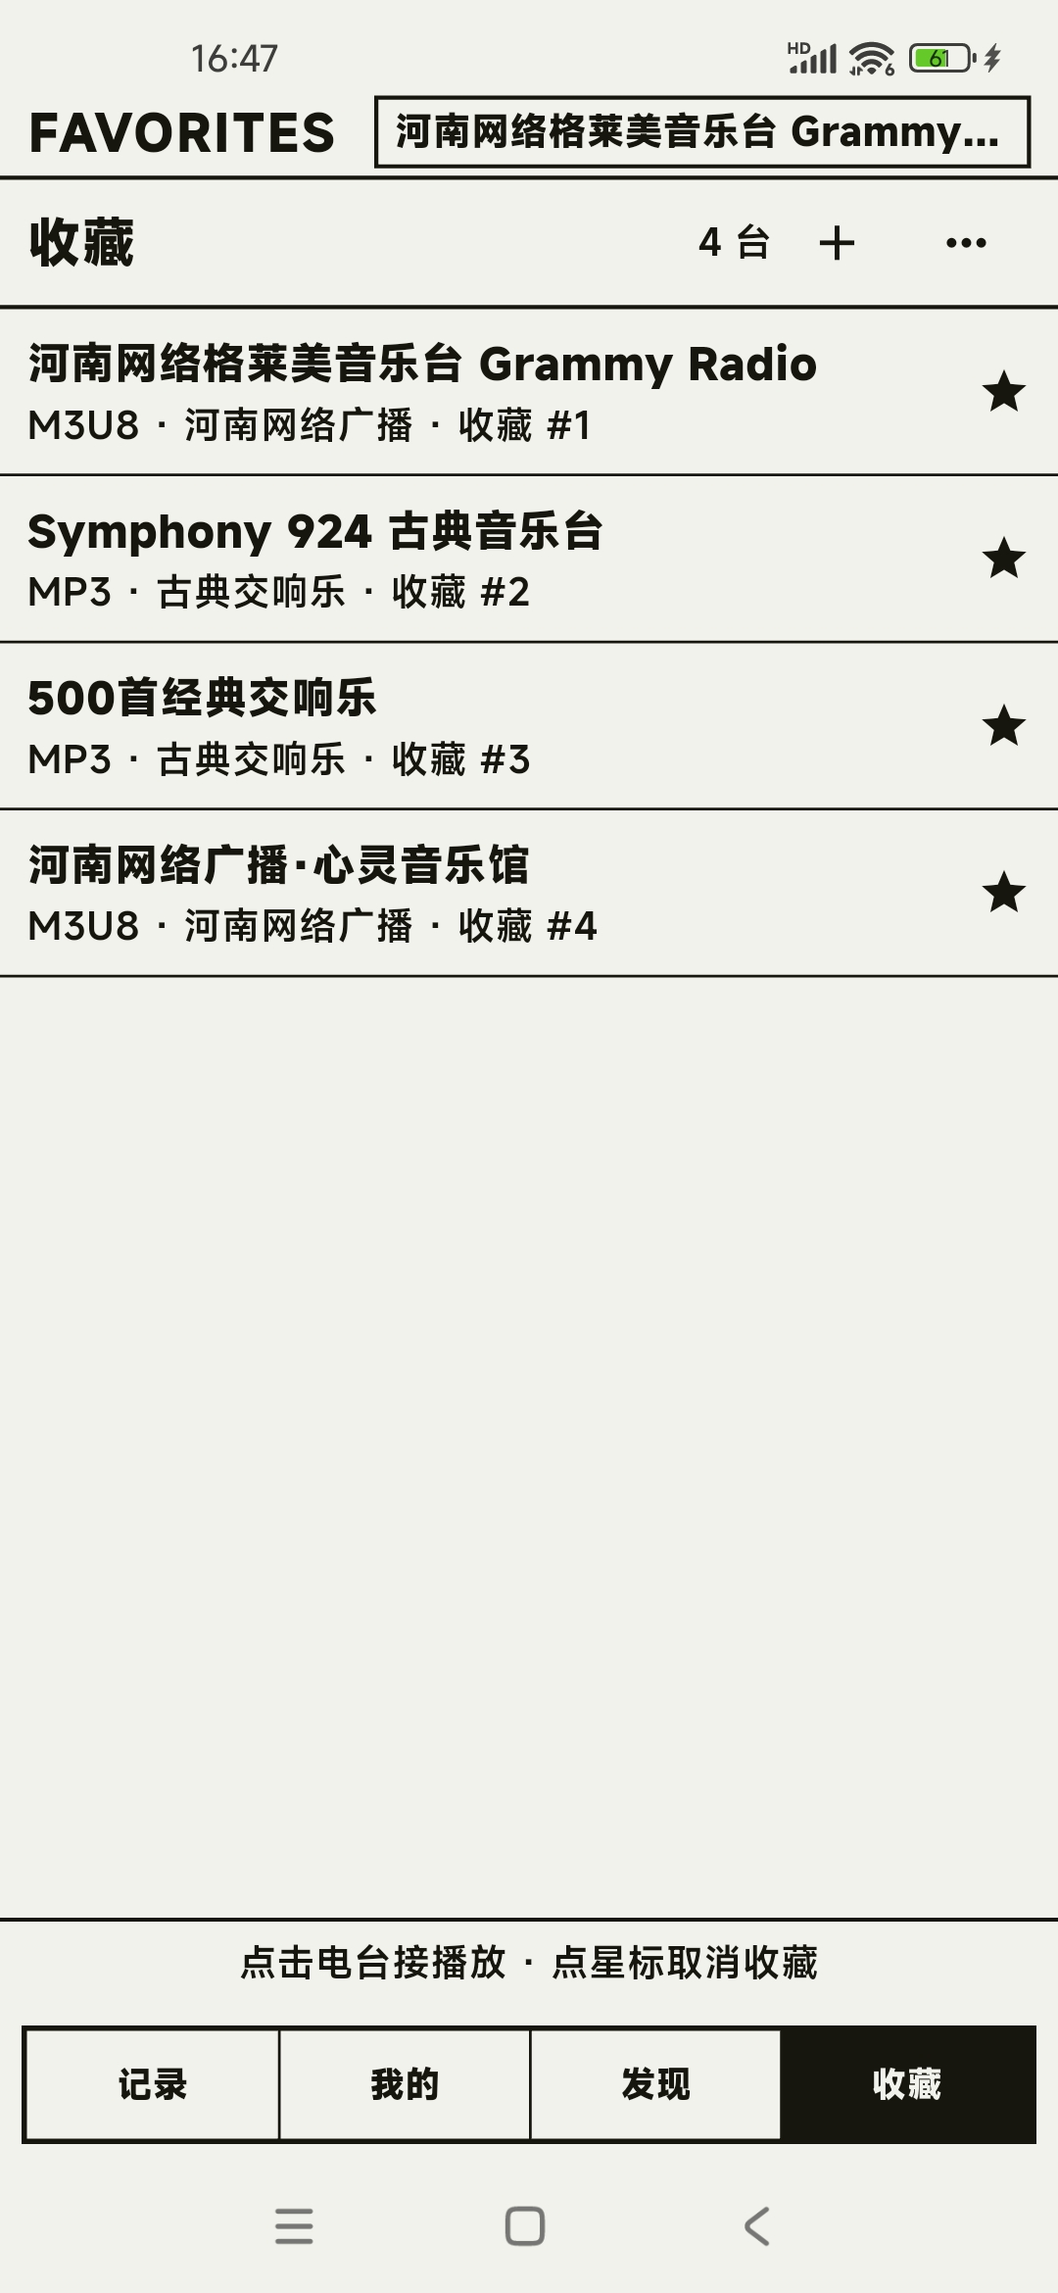
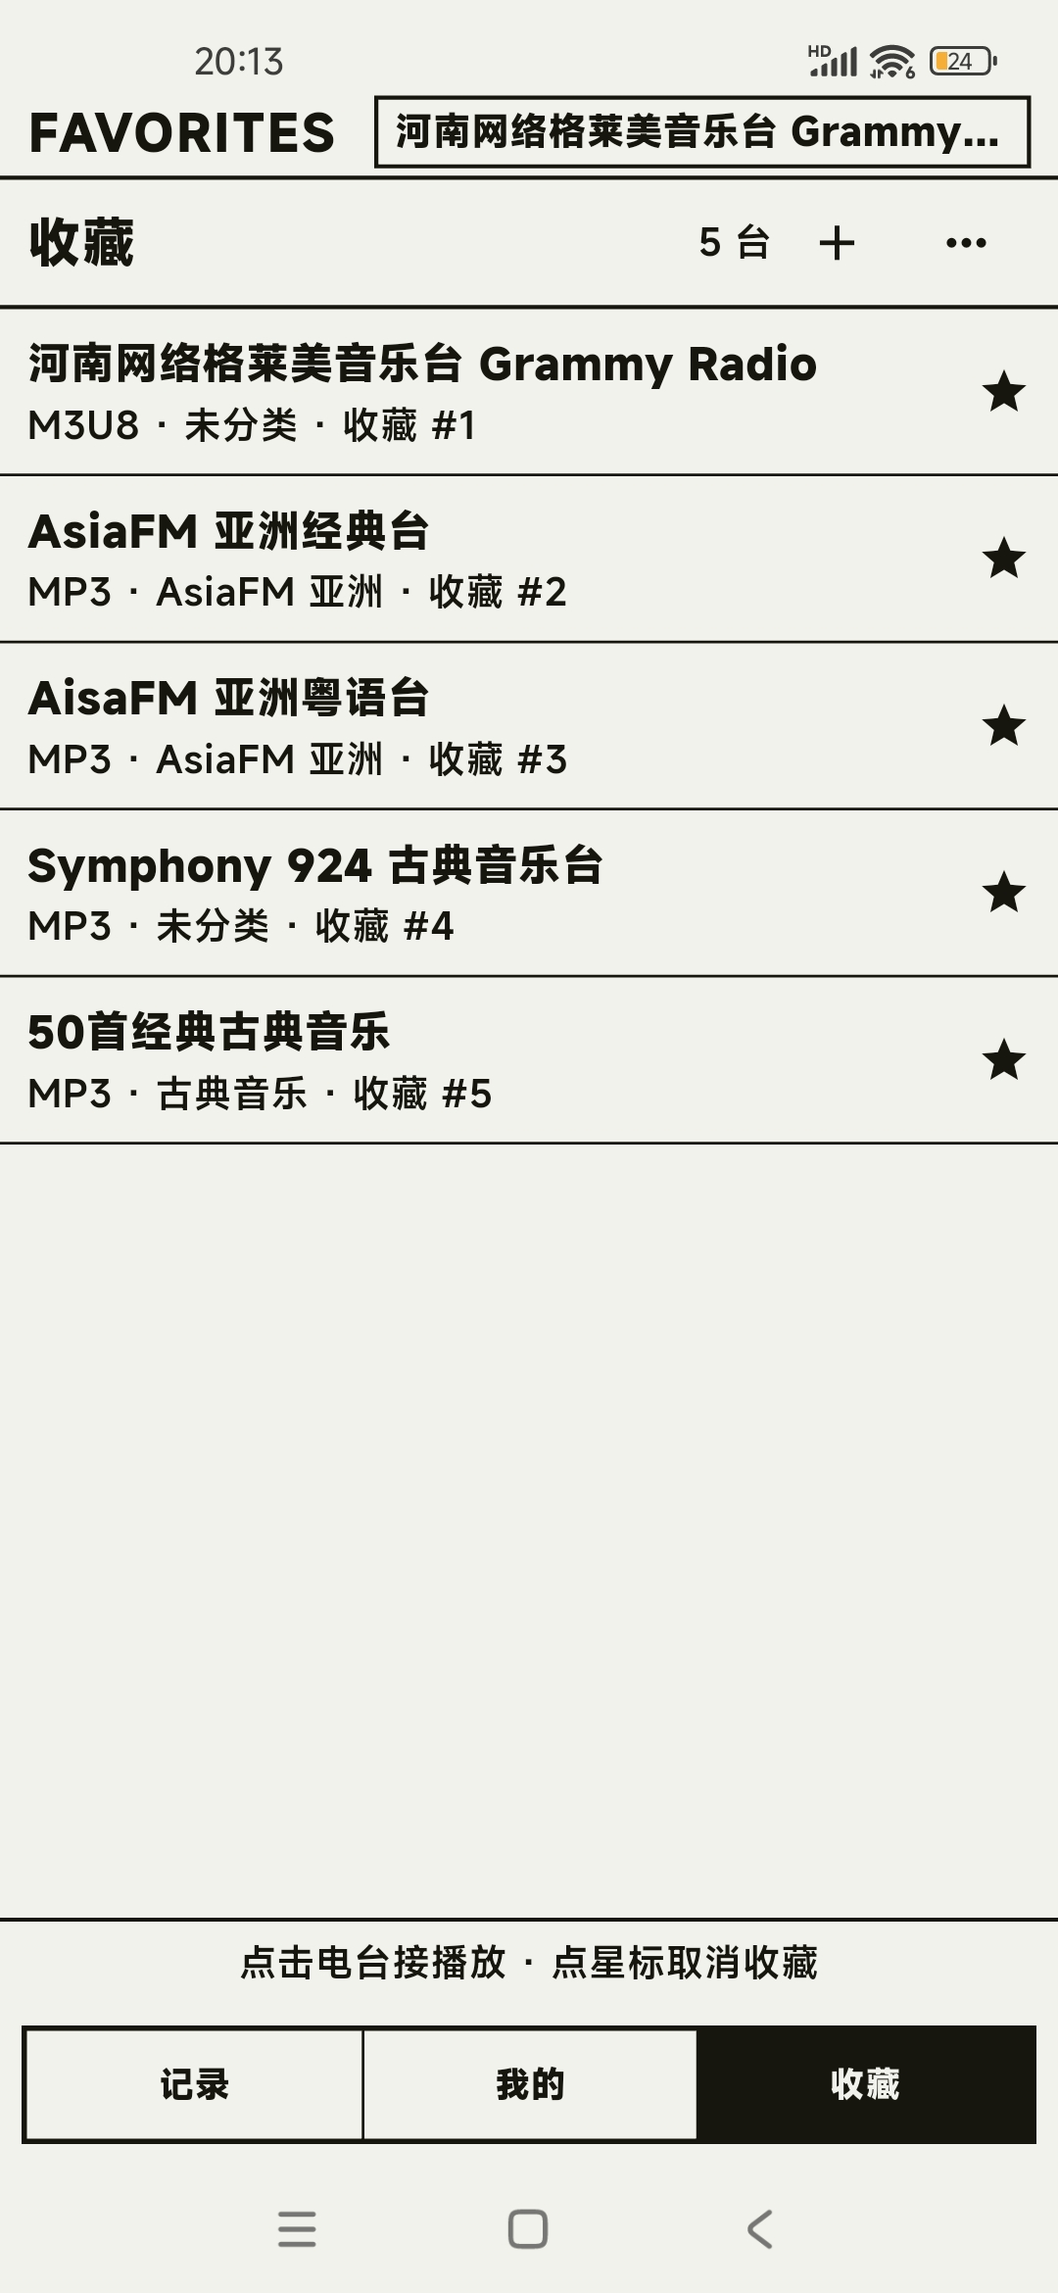
移除发现页与内置电台说明，更新界面截图

diff --git a/README.en.md b/README.en.md
@@ -9,7 +9,7 @@ Dingding Radio (TingTing Radio) is a minimalist, e-ink-style internet radio play
 > This repository is for the app introduction, user guide and official APK releases only. **Source code is not included.**
 
 <p align="center">
-  <img src="screenshots/home.jpg" width="230" alt="My stations">
+  <img src="screenshots/library.jpg" width="230" alt="My stations">
   <img src="screenshots/player.jpg" width="230" alt="Now playing">
   <img src="screenshots/favorites.jpg" width="230" alt="Favorites">
 </p>
@@ -38,17 +38,16 @@ Verify the checksum after downloading, then install. If you are unsure, pick **a
 
 ## What's new (v2026.11.12)
 
-1. **RadioBrowser public station library**: tap the **Discover** tab at the bottom to browse **52,000+** stations by location / category / search. Hit the `+` on any row to add it;
-2. **Bulk group / bulk delete** for your own station library;
-3. **Multilingual UI**: follow system or pick from 14 languages (Simplified Chinese, Traditional Chinese, English, Español, Deutsch, Français, Русский, Português, Italiano, Ελληνικά, Nederlands, Română, Polski). Changes take effect immediately;
-4. Several UI polish and bug fixes.
+1. **Bulk group / bulk delete** for your own station library;
+2. **Multilingual UI**: follow system or pick from 14 languages (Simplified Chinese, Traditional Chinese, English, Español, Deutsch, Français, Русский, Português, Italiano, Ελληνικά, Nederlands, Română, Polski). Changes take effect immediately;
+3. Several UI polish and bug fixes.
 
 ## Features
 
 - **MP3 & M3U8 support** — the stream format is detected from the URL automatically.
 - **Keeps playing with the screen off** — foreground media service + wake lock; playback continues when locked or backgrounded.
 - **Notification and lock-screen controls** — play, pause, previous, next, stop.
-- **Your own station library** — add, edit, move, delete, group, bulk-group and bulk-delete; bulk import from the clipboard or search the RadioBrowser online directory (50,000+ stations).
+- **Your own station library** — add MP3 / M3U8 stations manually or bulk-import them from the clipboard; edit, move, delete, group, bulk-group and bulk-delete.
 - **Favorites and resume** — star the stations you use and return to the last one on cold start.
 - **Sleep timer** — stop automatically after 15 / 30 / 60 minutes.
 - **Auto skip on failure** — when a stream fails, the app offers a clear message and tries the next station.
@@ -60,7 +59,7 @@ Verify the checksum after downloading, then install. If you are unsure, pick **a
 
 1. Download the APK from [Releases](https://github.com/haijiang2023/tingting-radio/releases/latest).
 2. Allow “Install unknown apps” on your phone, then install it.
-3. Open the app, tap **Discover** at the bottom. You’ll see **52,000+** public stations — browse by location / category / search, and hit `+` on any row to add it.
+3. Open the app and tap `+` in the top-right corner. Enter a station name and its MP3 / M3U8 URL manually, or bulk-import stations from the clipboard.
 4. Tap a station to play. Playback continues after you press the power button, and controls stay available in the notification shade.
 
 Detailed guide (Simplified Chinese): [使用教程](docs/使用教程.md) · FAQ: [常见问题](docs/常见问题.md)
@@ -69,23 +68,22 @@ Detailed guide (Simplified Chinese): [使用教程](docs/使用教程.md) · FAQ
 
 | Method | Best for |
 |---|---|
-| **Discover · RadioBrowser** (recommended) | Browse 50,000+ public stations by country / genre / keyword. Tap `+` to add |
-| Add manually | You already know an MP3 direct link or M3U8 URL |
-| Bulk import from clipboard | You have copied several stream URLs and want to parse them at once |
+| Add manually | You already know an MP3 direct link or M3U8 URL and want to enter stations one by one |
+| Bulk import from clipboard | You have copied several stream URLs and want to parse and import them at once |
 
 You can create a group while adding a station. Groups are optional; the home screen shows a mixed list with groups on top and ungrouped stations below.
 
 ## Screenshots
 
 <p align="center">
-  <a href="screenshots/home.jpg"><img src="screenshots/home.jpg" width="200" alt="My stations"></a>
-  <a href="screenshots/add-station.jpg"><img src="screenshots/add-station.jpg" width="200" alt="Discover"></a>
+  <a href="screenshots/library.jpg"><img src="screenshots/library.jpg" width="200" alt="My stations"></a>
+  <a href="screenshots/home.jpg"><img src="screenshots/home.jpg" width="200" alt="History"></a>
   <a href="screenshots/lang.jpg"><img src="screenshots/lang.jpg" width="200" alt="Language"></a>
   <a href="screenshots/player.jpg"><img src="screenshots/player.jpg" width="200" alt="Now playing"></a>
 </p>
 
 <p align="center">
-  My stations · Discover (52,000+ RadioBrowser stations) · Language (14) · Now playing
+  My stations · History · Language (14) · Now playing
 </p>
 
 ## About internet radio and online radio
@@ -94,7 +92,7 @@ Dingding Radio (TingTing Radio) is a free **internet radio** and **online radio*
 
 ## Notes
 
-- Some stations appear on first launch. Add the rest yourself.
+- No station directory or sample stations are built in. Add all stations yourself.
 - You provide the stream URLs; third-party streams may expire or be region-restricted.
 - Stations, groups, favorites and volume are stored on your device only. Uninstalling clears them.
 - Two builds are published: **arm64-v8a (Android 5–17)** and **armeabi-v7a (Android 4.x)**. The app is not available on any app store.

diff --git a/README.zh-Hant.md b/README.zh-Hant.md
@@ -9,7 +9,7 @@
 > 本倉庫僅用於發布應用介紹、使用教學與正式版 APK，**不包含原始碼**。
 
 <p align="center">
-  <img src="screenshots/home.jpg" width="230" alt="我的電台">
+  <img src="screenshots/library.jpg" width="230" alt="我的電台">
   <img src="screenshots/player.jpg" width="230" alt="正在播放">
   <img src="screenshots/favorites.jpg" width="230" alt="收藏">
 </p>
@@ -38,17 +38,16 @@ armeabi-v7a / Android 4.x 舊包：9D04985AA516F3E290457688FE883CFCE70A228F18275
 
 ## 更新說明（v2026.11.12）
 
-1. **接入 RadioBrowser 公共電台庫**，底部切到「發現」即可按本地 / 分類 / 搜尋瀏覽全世界 **5.2 萬+** 電台，點右側 `+` 一鍵收藏；
-2. **新增電台批次歸類、批次刪除**，整理自建電台庫更高效；
-3. **多語言介面**：跟隨系統 + 14 種語言（簡中、繁中、英、西、德、法、俄、葡、意、希、荷、羅、波），選擇後立即生效；
-4. 多項介面小改進與已知問題修復。
+1. **新增電台批次歸類、批次刪除**，整理自建電台庫更高效；
+2. **多語言介面**：跟隨系統 + 14 種語言（簡中、繁中、英、西、德、法、俄、葡、意、希、荷、羅、波），選擇後立即生效；
+3. 多項介面小改進與已知問題修復。
 
 ## 功能
 
 - **MP3 / M3U8 雙格式**：依連結自動判斷格式，不需手動選擇協定。
 - **螢幕關閉不斷流**：前景媒體服務 + 喚醒鎖，鎖定畫面、切到背景都能繼續播放。
 - **通知列 / 鎖定畫面控制**：播放、暫停、上一台、下一台、停止。
-- **自建電台庫**：新增、編輯、移動、刪除、分類、批次歸類、批次刪除；支援剪貼簿批次匯入與 RadioBrowser 線上電台庫（5 萬+）搜尋。
+- **自建電台庫**：手動新增或從剪貼簿批次匯入 MP3 / M3U8 電台；支援編輯、移動、刪除、分類、批次歸類、批次刪除。
 - **收藏與續聽**：收藏常用電台，冷啟動回到上次收聽。
 - **睡眠定時**：15 / 30 / 60 分鐘後自動停止。
 - **失敗自動切台**：直播源失效時提示並自動嘗試下一台。
@@ -60,7 +59,7 @@ armeabi-v7a / Android 4.x 舊包：9D04985AA516F3E290457688FE883CFCE70A228F18275
 
 1. 從 [Releases](https://github.com/haijiang2023/tingting-radio/releases/latest) 下載 APK。
 2. 在手機上允許「安裝未知來源應用程式」，點擊安裝。
-3. 開啟 App，底部切到「發現」，就能看到 **5.2 萬+** 公共電台，按「本地 / 分類 / 搜尋」瀏覽，點每行右側 `+` 即可加入。
+3. 開啟 App，點擊首頁右上角 `+`，手動填寫電台名稱與 MP3 / M3U8 位址，或從剪貼簿批次匯入。
 4. 點擊電台立即播放；按下電源鍵後聲音繼續，通知列可直接控制。
 
 完整說明見 [使用教學（簡體中文）](docs/使用教程.md)，常見問題見 [常見問題（簡體中文）](docs/常见问题.md)。
@@ -69,23 +68,22 @@ armeabi-v7a / Android 4.x 舊包：9D04985AA516F3E290457688FE883CFCE70A228F18275
 
 | 方式 | 適合情境 |
 |---|---|
-| **發現頁 · RadioBrowser**（推薦） | 瀏覽 5 萬+ 公共電台，依國家 / 分類 / 關鍵字搜尋，點 `+` 即加 |
-| 手動新增 | 已知 MP3 直鏈或 M3U8 位址 |
-| 剪貼簿批次匯入 | 已複製多個台源連結，可批次解析 |
+| 手動新增 | 已知 MP3 直鏈或 M3U8 位址，逐個填寫電台名稱與連結 |
+| 剪貼簿批次匯入 | 已複製多個台源連結，可一次性解析匯入 |
 
 新增時可順手建立分類。分類可以為 0 個，首頁會以「分類在上、未分類在下」的混合清單呈現。
 
 ## 介面
 
 <p align="center">
-  <a href="screenshots/home.jpg"><img src="screenshots/home.jpg" width="200" alt="我的電台"></a>
-  <a href="screenshots/add-station.jpg"><img src="screenshots/add-station.jpg" width="200" alt="發現頁"></a>
-  <a href="screenshots/lang.jpg"><img src="screenshots/lang.jpg" width="200" alt="語言"></a>
+  <a href="screenshots/library.jpg"><img src="screenshots/library.jpg" width="200" alt="我的電台"></a>
+  <a href="screenshots/home.jpg"><img src="screenshots/home.jpg" width="200" alt="播放記錄"></a>
+  <a href="screenshots/lang.jpg"><img src="screenshots/lang.jpg" width="200" alt="語言設定"></a>
   <a href="screenshots/player.jpg"><img src="screenshots/player.jpg" width="200" alt="正在播放"></a>
 </p>
 
 <p align="center">
-  我的電台 · 發現頁（RadioBrowser 5.2 萬+ 電台）· 語言設定（14 種）· 正在播放
+  我的電台 · 播放記錄 · 語言設定（14 種）· 正在播放
 </p>
 
 ## 關於「網路電台 / 網路收音機」
@@ -94,7 +92,7 @@ armeabi-v7a / Android 4.x 舊包：9D04985AA516F3E290457688FE883CFCE70A228F18275
 
 ## 說明
 
-- 應用程式不內建部分範例台；其餘電台由你自行新增。
+- 應用程式不內建電台目錄或範例台，所有電台均需由你自行新增。
 - 電台源由你自行輸入，第三方轉流位址可能失效或受地區限制。
 - 電台、分類、收藏、音量等資料只保存在本機，不需要帳號；解除安裝會一併清除。
 - 同時發布 **arm64-v8a（Android 5~17）** 與 **armeabi-v7a（Android 4.x）** 兩個版本，未上架任何應用程式商店。

diff --git a/README.md b/README.md
@@ -9,7 +9,7 @@
 > 本仓库仅用于发布应用介绍、使用教程和正式版 APK，**不包含源代码**。
 
 <p align="center">
-  <img src="screenshots/home.jpg" width="230" alt="我的电台">
+  <img src="screenshots/library.jpg" width="230" alt="我的电台">
   <img src="screenshots/player.jpg" width="230" alt="正在播放">
   <img src="screenshots/favorites.jpg" width="230" alt="收藏">
 </p>
@@ -38,17 +38,16 @@ armeabi-v7a / Android 4.x 老包：9D04985AA516F3E290457688FE883CFCE70A228F18275
 
 ## 更新说明（v2026.11.12）
 
-1. **接入 RadioBrowser 公共电台库**，底部切到「发现」即可按本地 / 分类 / 搜索浏览全世界 **5.2 万+** 电台，点右侧 `+` 一键收藏；
-2. **新增电台批量归类、批量删除**，整理自建电台库更高效；
-3. **多语言界面**：跟随系统 + 14 种语言（简中、繁中、英、西、德、法、俄、葡、意、希、荷、罗、波），选择后立即生效；
-4. 多项界面小改进与已知问题修复。
+1. **新增电台批量归类、批量删除**，整理自建电台库更高效；
+2. **多语言界面**：跟随系统 + 14 种语言（简中、繁中、英、西、德、法、俄、葡、意、希、荷、罗、波），选择后立即生效；
+3. 多项界面小改进与已知问题修复。
 
 ## 功能
 
 - **MP3 / M3U8 双格式**：格式按链接自动判断，不用手选协议。
 - **息屏不断流**：前台媒体服务 + 唤醒锁，锁屏、切后台继续播放。
 - **通知栏 / 锁屏控制**：播放、暂停、上一台、下一台、停止。
-- **自建电台库**：添加、编辑、移动、删除、分类、批量归类、批量删除；支持剪贴板批量导入与 RadioBrowser 在线电台库（5 万+）搜索。
+- **自建电台库**：手动添加或从剪贴板批量导入 MP3 / M3U8 电台；支持编辑、移动、删除、分类、批量归类、批量删除。
 - **收藏与续听**：收藏常用电台，冷启动回到上次收听。
 - **睡眠定时**：15 / 30 / 60 分钟自动停止。
 - **失败自动切台**：直播源失效时提示并自动尝试下一台。
@@ -60,7 +59,7 @@ armeabi-v7a / Android 4.x 老包：9D04985AA516F3E290457688FE883CFCE70A228F18275
 
 1. 从 [Releases](https://github.com/haijiang2023/tingting-radio/releases/latest) 下载 APK。
 2. 在手机上允许「安装未知来源应用」，点击安装。
-3. 打开 App，底部切到「发现」，就能看到 **5.2 万+** 公共电台，按「本地 / 分类 / 搜索」浏览，点每行右侧 `+` 即可加入。
+3. 打开 App，点击首页右上角 `+`，手动填写电台名称与 MP3 / M3U8 地址，或从剪贴板批量导入。
 4. 点电台立即播放；按下电源键后声音继续，通知栏可直接控制。
 
 完整说明见 [使用教程](docs/使用教程.md)，常见问题见 [常见问题](docs/常见问题.md)。
@@ -69,23 +68,22 @@ armeabi-v7a / Android 4.x 老包：9D04985AA516F3E290457688FE883CFCE70A228F18275
 
 | 方式 | 适合场景 |
 |---|---|
-| **发现页 · RadioBrowser**（推荐） | 浏览 5 万+ 公共电台，按国家 / 分类 / 关键词搜索，点 `+` 即加 |
-| 手动添加 | 已知 MP3 直链或 M3U8 地址 |
-| 剪贴板批量导入 | 已复制多个台源链接，可批量解析 |
+| 手动添加 | 已知 MP3 直链或 M3U8 地址，逐个填写电台名称与链接 |
+| 剪贴板批量导入 | 已复制多个台源链接，可一次性解析导入 |
 
 添加时可顺手新建分类。分类可以为 0 个，首页会以「分类在上、未分类在下」的混合列表展示。
 
 ## 界面
 
 <p align="center">
-  <a href="screenshots/home.jpg"><img src="screenshots/home.jpg" width="200" alt="我的电台"></a>
-  <a href="screenshots/add-station.jpg"><img src="screenshots/add-station.jpg" width="200" alt="发现页"></a>
-  <a href="screenshots/lang.jpg"><img src="screenshots/lang.jpg" width="200" alt="语言"></a>
+  <a href="screenshots/library.jpg"><img src="screenshots/library.jpg" width="200" alt="我的电台"></a>
+  <a href="screenshots/home.jpg"><img src="screenshots/home.jpg" width="200" alt="播放记录"></a>
+  <a href="screenshots/lang.jpg"><img src="screenshots/lang.jpg" width="200" alt="语言设置"></a>
   <a href="screenshots/player.jpg"><img src="screenshots/player.jpg" width="200" alt="正在播放"></a>
 </p>
 
 <p align="center">
-  我的电台 · 发现页（RadioBrowser 5.2 万+ 电台）· 语言设置（14 种）· 正在播放
+  我的电台 · 播放记录 · 语言设置（14 种）· 正在播放
 </p>
 
 ## 关于「网络电台 / 网络收音机」
@@ -94,7 +92,7 @@ armeabi-v7a / Android 4.x 老包：9D04985AA516F3E290457688FE883CFCE70A228F18275
 
 ## 说明
 
-- 应用内置部分示例台；其余电台由你自行添加。
+- 应用不内置电台目录或示例台，所有电台均需由你自行添加。
 - 电台源由你自己录入，第三方转流地址可能失效或受地域限制。
 - 电台、分类、收藏、音量等数据只保存在本机，不需要账号；卸载会一并清除。
 - 同时发布 **arm64-v8a（Android 5~17）** 与 **armeabi-v7a（Android 4.x）** 两个版本，未上架任何应用商店。

diff --git a/docs/使用教程.md b/docs/使用教程.md
@@ -7,13 +7,13 @@
 1. 打开 [Releases](https://github.com/haijiang2023/tingting-radio/releases/latest)，下载最新版 APK。
 2. 在 Android 系统设置中允许当前浏览器（或文件管理器）「安装未知应用」。
 3. 点击 APK 完成安装。若系统提示风险，请先核对下载页给出的 SHA-256。
-4. 本安装包为 **arm64-v8a** 构建，适用于绝大多数 Android 5.0 及以上手机；32 位老设备无法安装。
+4. 根据设备选择安装包：Android 5.0～17 推荐使用 **arm64-v8a** 版本；Android 4.x 老设备请使用 **armeabi-v7a** 版本。
 
 > 升级新版本时直接覆盖安装即可，电台与收藏数据会保留。
 
 ## 2. 首次启动
 
-打开 App 进入「我的电台」页。首次启动只有 4 个 AsiaFM 示例台，用于验证播放是否正常。
+打开 App 进入「我的电台」页。应用不内置电台目录或示例台，首次启动需要先添加自己的电台。
 
 页面结构：
 
@@ -24,13 +24,12 @@
 
 ## 3. 添加电台
 
-点击首页右上角 `+`，会看到四个入口：
+点击首页右上角 `+`，会看到三个入口：
 
 | 入口 | 用法 |
 |---|---|
 | 添加电台 | 手动填写名称与流地址，并选择分类 |
 | 从剪贴板导入 | 先把台源文本复制到剪贴板，再一次性解析导入 |
-| 从在线库导入 | 搜索公共在线电台目录，选中后加入本机 |
 | 新建分类 | 先建一个分类，再把电台放进去 |
 
 ### 手动添加
@@ -48,17 +47,12 @@
 2. 打开叮叮电台，点击 `+` →「从剪贴板导入」。
 3. 核对解析结果后确认导入。
 
-### 从在线库导入
-
-1. 点击 `+` →「从在线库导入」。
-2. 输入关键词搜索（如城市名、电台名）。
-3. 选择需要的电台加入本机电台库。
-
 ## 4. 管理电台与分类
 
 - **编辑**：长按电台或分类，弹出菜单后选择「编辑」。
 - **移动**：长按电台，选择「移动」，把它放到其他分类或移回未分类。
 - **删除**：长按后选择「删除」；删除分类后，组内电台会自动回落到未分类。
+- **批量归类 / 批量删除**：进入批量管理模式，勾选多个电台后统一归类或删除。
 - 分类数量可以为 0，首页会自动变成「未分类电台」的平铺列表。
 
 ## 5. 播放
